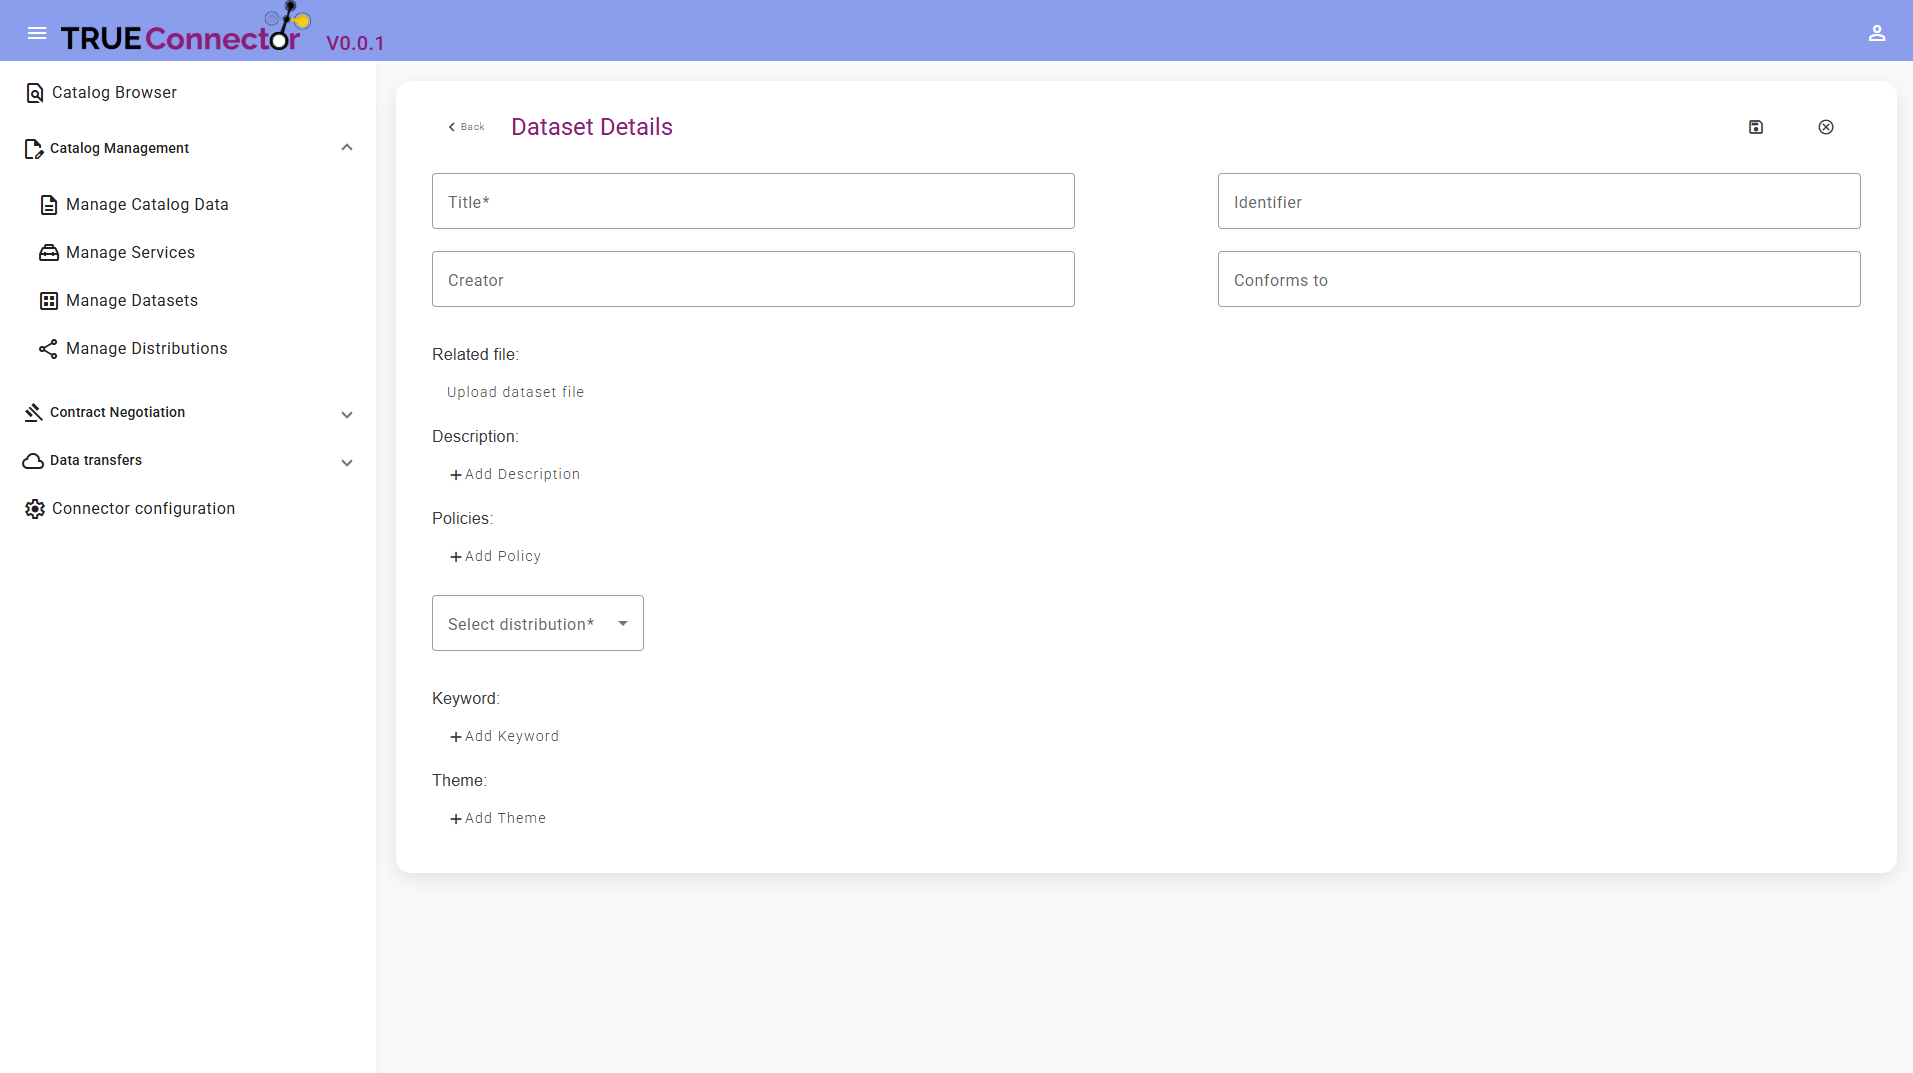
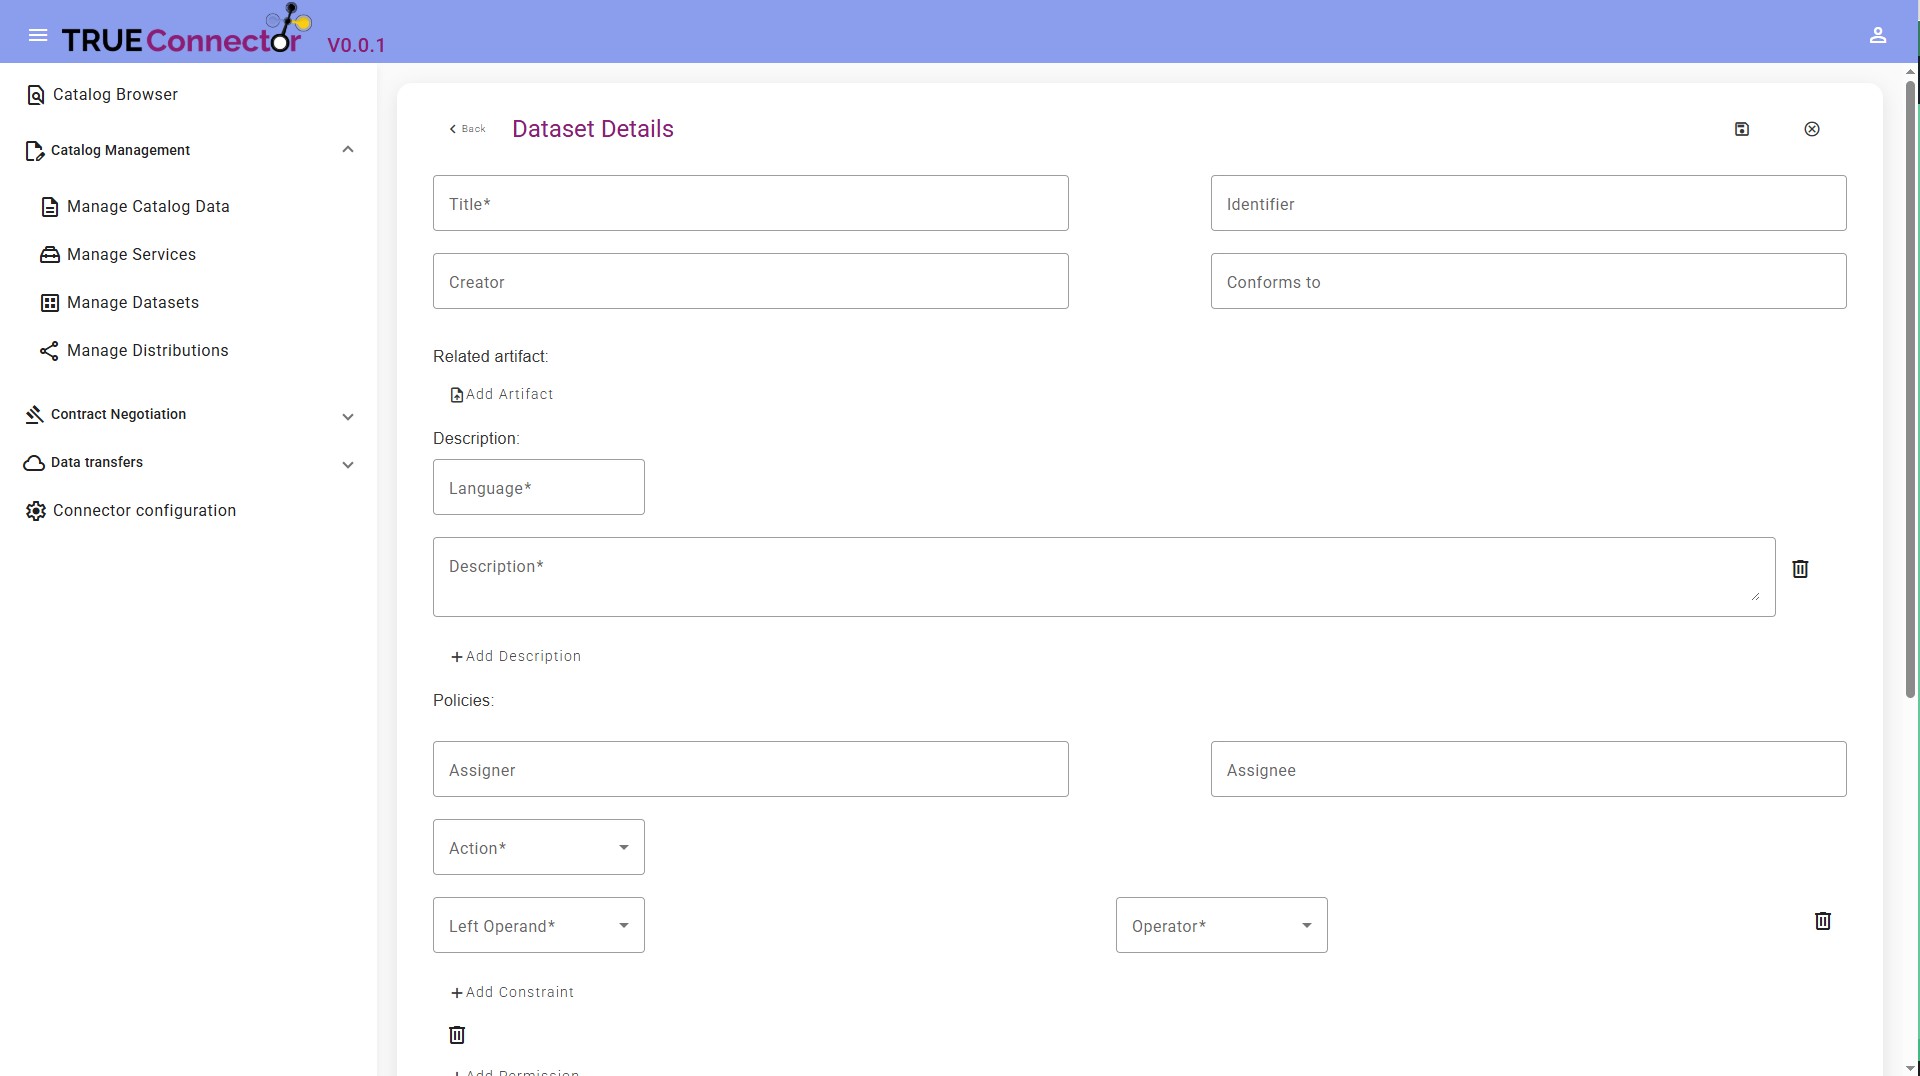
Update documentation and screenshots

diff --git a/USER_MANUAL.md b/USER_MANUAL.md
@@ -280,7 +280,17 @@ The Dataset Management section provides control over all available datasets in C
 
 After inserting all necessary related data, click on a save button to store it in DB, or on cancel or back button to cancel inserting.
 
-![Dataset edit](/screenshots/dataset_add.png)
+Artifact related to data set can be either file which will be uploaded, or external URL from where artifact will be fetched. If artifact is from external URL, authorization can be set, and it can be none, Basic (username/password) or Bearer Token.
+
+![Artifact add](/screenshots/artifact_add_file.png)
+
+<p align="center">Add file artifact</p>
+
+![Artifact add](/screenshots/artifact_add_external.png)
+
+<p align="center">Add external artifact</p>
+
+![Dataset add](/screenshots/dataset_edit.png)
 
 <p align="center">Edit dataset</p>
 
@@ -392,3 +402,4 @@ For more information, flow, states, etc. about Data Transfers, please check [her
 - View transfer details
 - Manage transfer status
 - Download artifacts
+- View artifacts

diff --git a/CHANGELOG.md b/CHANGELOG.md
@@ -1,3 +1,15 @@
 # Changelog
 
 All notable changes to this project will be documented in this file.
+
+[0.0.1] - 24-04-2025
+
+### Added
+
+- Catalog browser - fetch catalog data from other connectors and start contract negotiation
+- Catalog management - create, modify, delete existing catalog data
+- Service management - create, modify, delete existing service data
+- Dataset management - create, modify, delete existing dataset data
+- Distribution management - create, modify, delete existing distribution data
+- Contract negotiation - manage contract negotiation as provider and as consumer
+- Data transfers - manage data transfers as provider and as consumer

diff --git a/release_notes.md b/release_notes.md
@@ -1,6 +1,11 @@
+[0.0.1] - 24-04-2025
 
-### Changed
+### Added
 
-- Fix release.yml script
-
-
+- Catalog browser - fetch catalog data from other connectors and start contract negotiation
+- Catalog management - create, modify, delete existing catalog data
+- Service management - create, modify, delete existing service data
+- Dataset management - create, modify, delete existing dataset data
+- Distribution management - create, modify, delete existing distribution data
+- Contract negotiation - manage contract negotiation as provider and as consumer
+- Data transfers - manage data transfers as provider and as consumer
